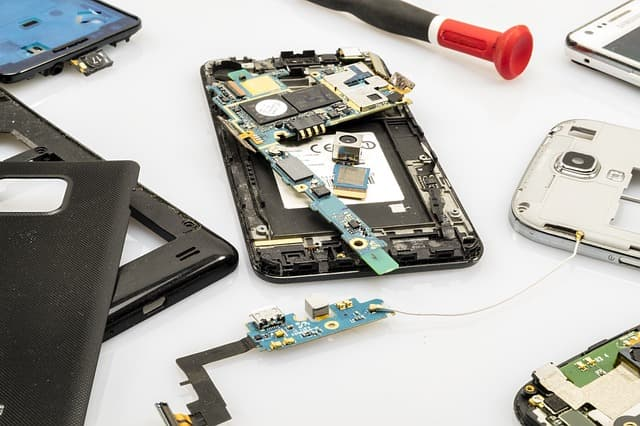
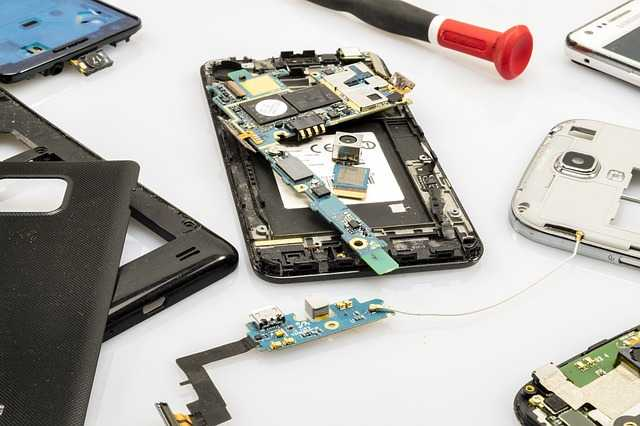
Меняет формат баннера на webp

diff --git a/pages/index.vue b/pages/index.vue
@@ -143,7 +143,7 @@ export default {
       showArrows: false,
       slides: [
         {
-          src: '/hero.optim.jpg',
+          src: '/hero.optim.webp',
           caption:
             'До 31 августа при любом ремонте - Защитное стекло в подарок (с установкой)'
         }
